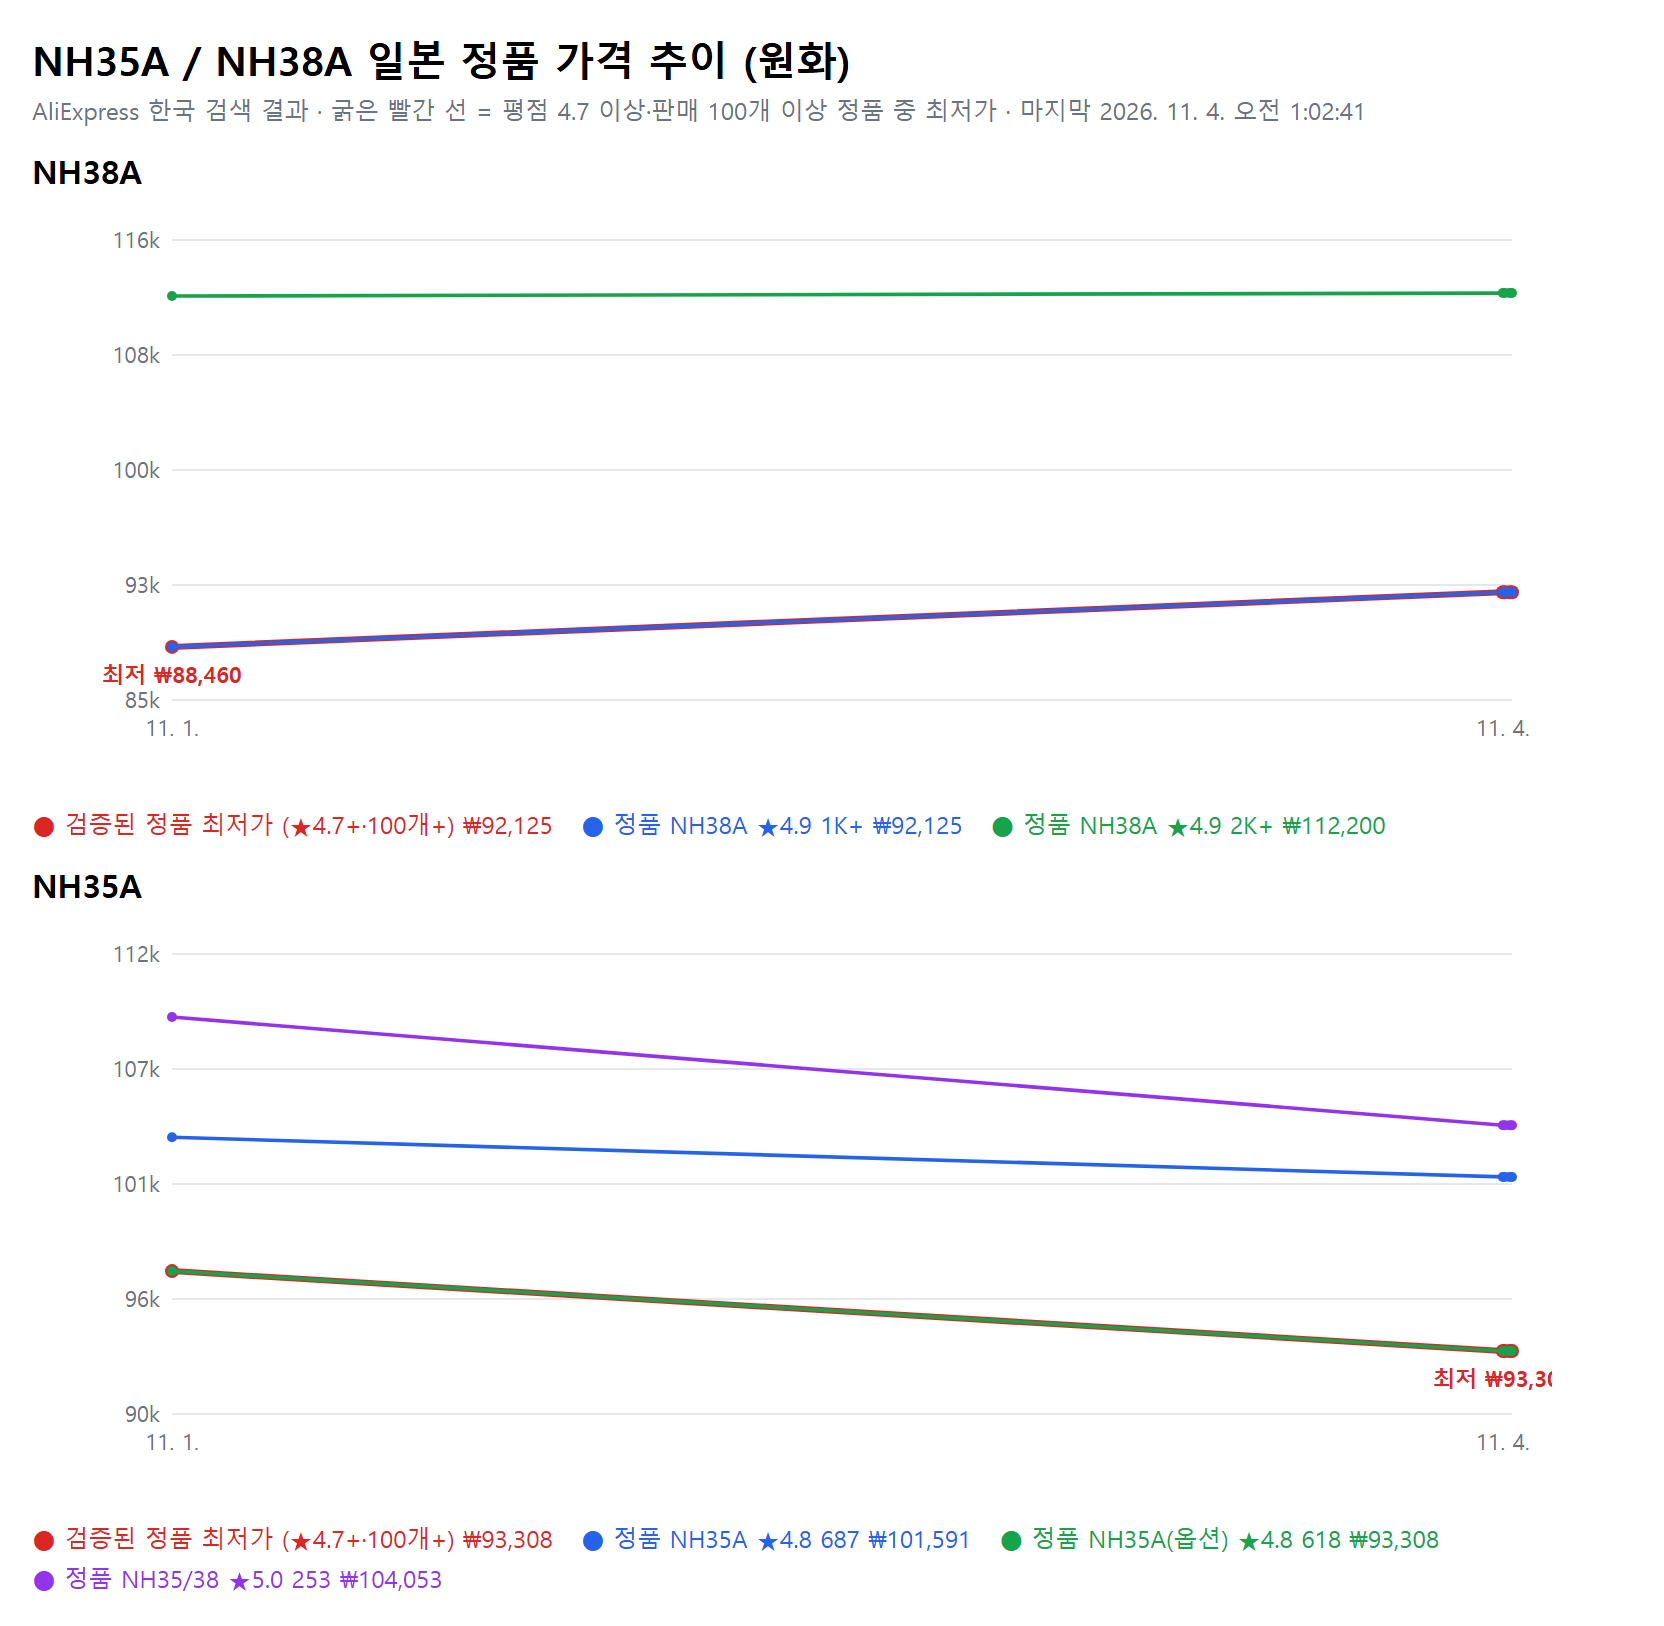
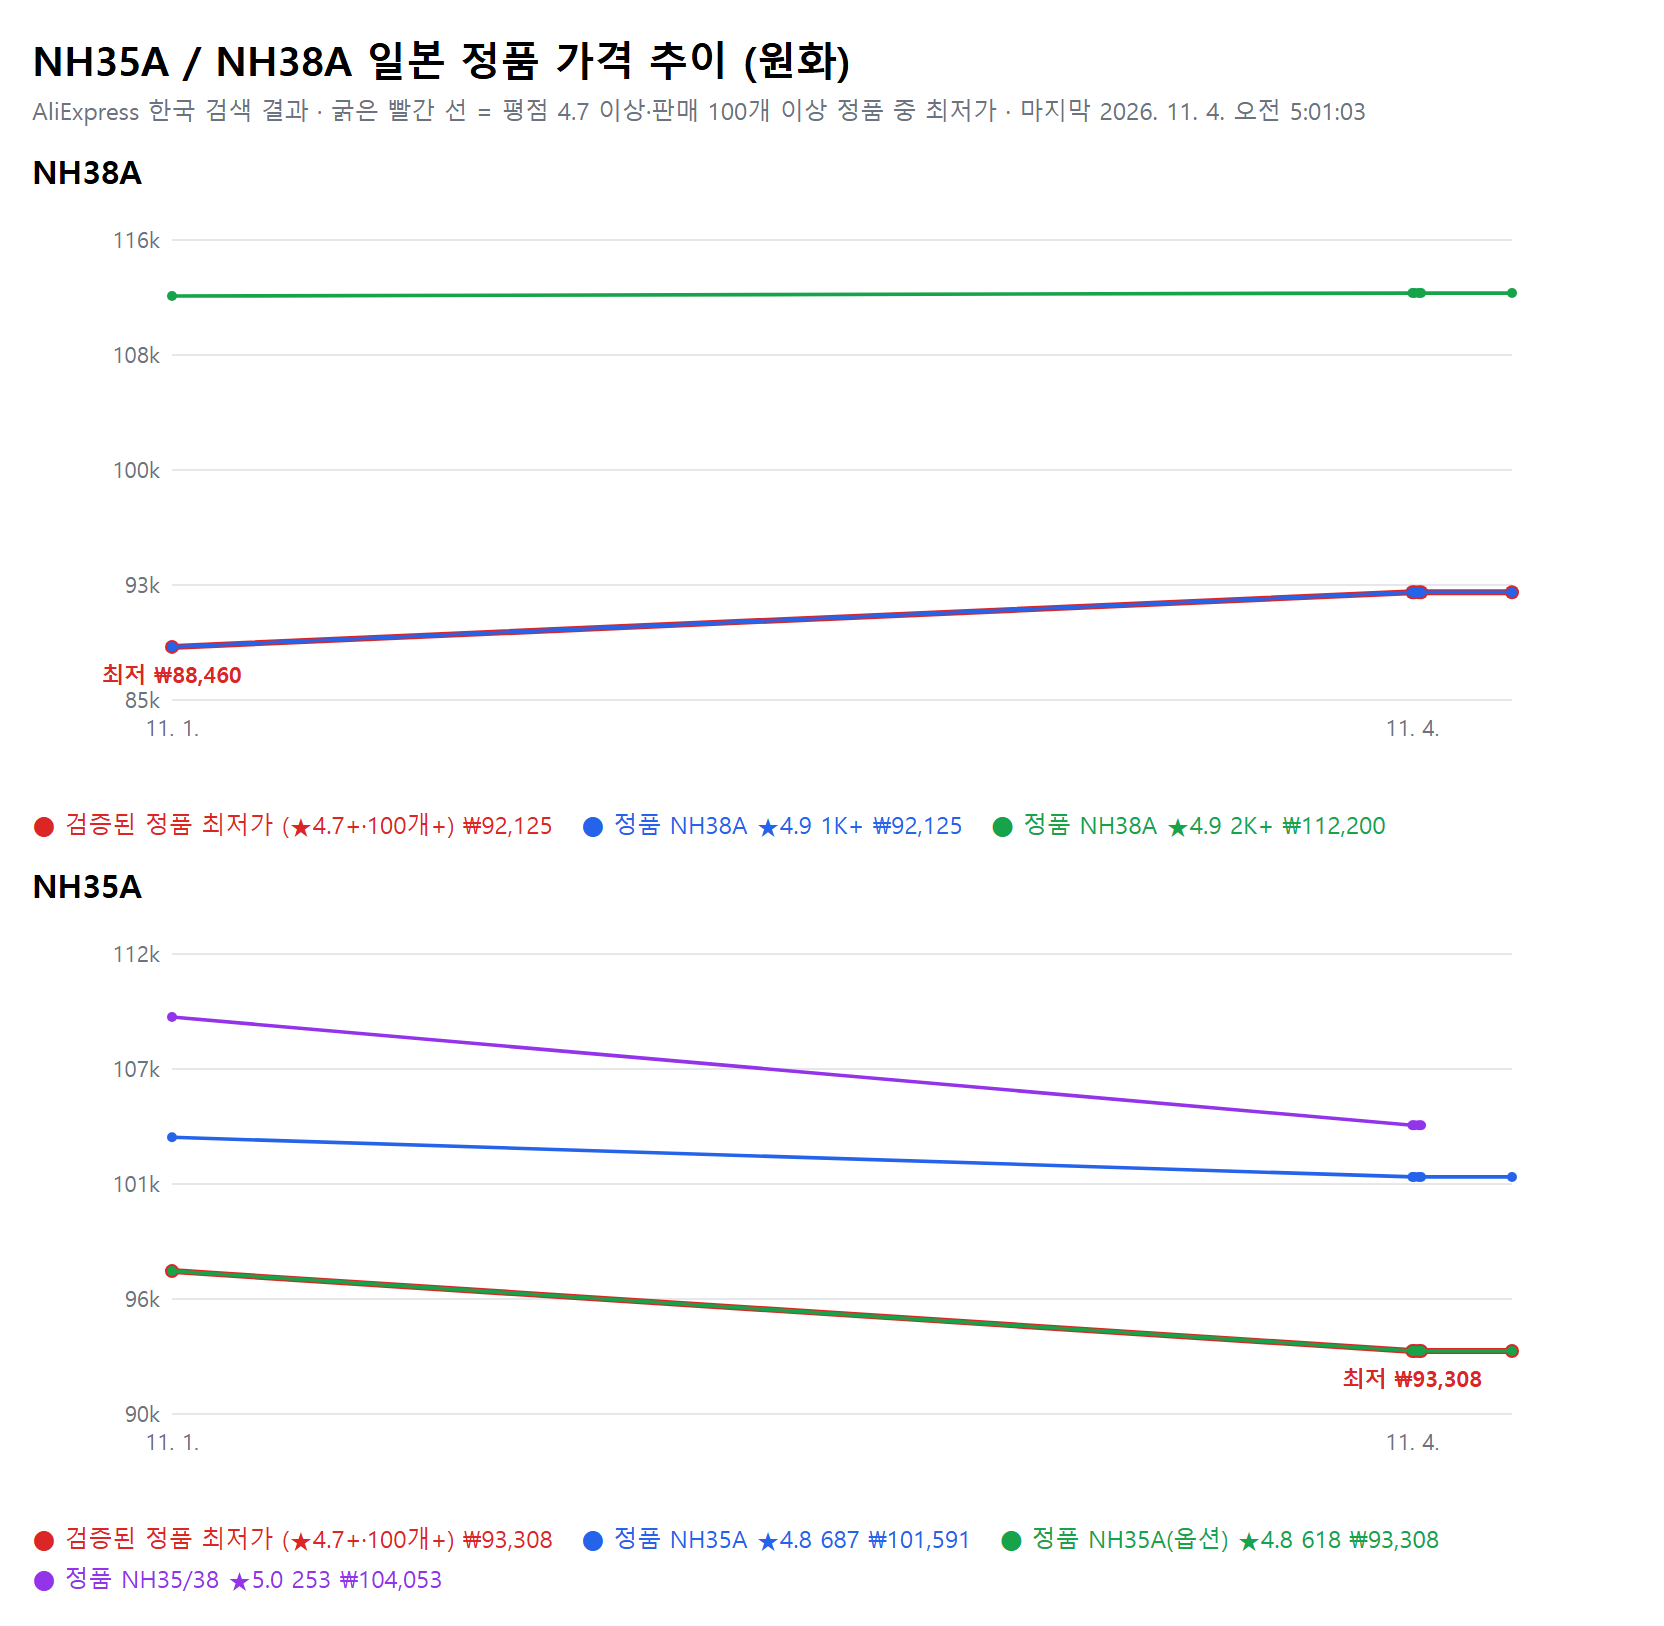
Price tracker update 2026-11-04 05:00 KST

diff --git a/watch_mod/price_tracker/chart.html b/watch_mod/price_tracker/chart.html
@@ -1,2 +1,2 @@
 <!DOCTYPE html><html><head><meta charset="utf-8"><style>body{font-family:sans-serif;margin:16px;width:800px}h1{font-size:20px;margin:0 0 4px}p{color:#6b7280;margin:0 0 8px;font-size:12px}h2{font-size:16px;margin:12px 0 4px}.lg{font-size:12px;display:flex;flex-wrap:wrap;gap:4px 14px}</style></head><body>
-  <h1>NH35A / NH38A 일본 정품 가격 추이 (원화)</h1><p>AliExpress 한국 검색 결과 · 굵은 빨간 선 = 평점 4.7 이상·판매 100개 이상 정품 중 최저가 · 마지막 2026. 11. 4. 오전 1:02:41</p><h2>NH38A</h2><svg width="760" height="300" xmlns="http://www.w3.org/2000/svg" font-family="sans-serif" font-size="11"><line x1="70" x2="740" y1="250" y2="250" stroke="#e5e7eb"/><text x="64" y="254" text-anchor="end" fill="#6b7280">85k</text><line x1="70" x2="740" y1="192.5" y2="192.5" stroke="#e5e7eb"/><text x="64" y="196.5" text-anchor="end" fill="#6b7280">93k</text><line x1="70" x2="740" y1="135" y2="135" stroke="#e5e7eb"/><text x="64" y="139" text-anchor="end" fill="#6b7280">100k</text><line x1="70" x2="740" y1="77.5" y2="77.5" stroke="#e5e7eb"/><text x="64" y="81.5" text-anchor="end" fill="#6b7280">108k</text><line x1="70" x2="740" y1="20" y2="20" stroke="#e5e7eb"/><text x="64" y="24" text-anchor="end" fill="#6b7280">116k</text><text x="70" y="268" text-anchor="middle" fill="#6b7280">11. 1.</text><text x="735.4044908619092" y="268" text-anchor="middle" fill="#6b7280">11. 4.</text><polyline fill="none" stroke="#dc2626" stroke-width="3" points="70,223.46153846153845 735.4044908619092,196.1480137385782 736.4719840607165,196.1480137385782 738.8133057767619,196.1480137385782 740,196.1480137385782"/><circle cx="70" cy="223.46153846153845" r="3.5" fill="#dc2626"/><circle cx="735.4044908619092" cy="196.1480137385782" r="3.5" fill="#dc2626"/><circle cx="736.4719840607165" cy="196.1480137385782" r="3.5" fill="#dc2626"/><circle cx="738.8133057767619" cy="196.1480137385782" r="3.5" fill="#dc2626"/><circle cx="740" cy="196.1480137385782" r="3.5" fill="#dc2626"/><polyline fill="none" stroke="#2563eb" stroke-width="1.8" points="70,223.46153846153845 735.4044908619092,196.1480137385782 736.4719840607165,196.1480137385782 738.8133057767619,196.1480137385782 740,196.1480137385782"/><circle cx="70" cy="223.46153846153845" r="2.5" fill="#2563eb"/><circle cx="735.4044908619092" cy="196.1480137385782" r="2.5" fill="#2563eb"/><circle cx="736.4719840607165" cy="196.1480137385782" r="2.5" fill="#2563eb"/><circle cx="738.8133057767619" cy="196.1480137385782" r="2.5" fill="#2563eb"/><circle cx="740" cy="196.1480137385782" r="2.5" fill="#2563eb"/><polyline fill="none" stroke="#16a34a" stroke-width="1.8" points="70,48.02896766249757 735.4044908619092,46.53846153846155 736.4719840607165,46.53846153846155 738.8133057767619,46.53846153846155 740,46.53846153846155"/><circle cx="70" cy="48.02896766249757" r="2.5" fill="#16a34a"/><circle cx="735.4044908619092" cy="46.53846153846155" r="2.5" fill="#16a34a"/><circle cx="736.4719840607165" cy="46.53846153846155" r="2.5" fill="#16a34a"/><circle cx="738.8133057767619" cy="46.53846153846155" r="2.5" fill="#16a34a"/><circle cx="740" cy="46.53846153846155" r="2.5" fill="#16a34a"/><text x="70" y="241.46153846153845" text-anchor="middle" fill="#dc2626" font-weight="bold">최저 ₩88,460</text></svg><div class="lg"><span style="color:#dc2626">● 검증된 정품 최저가 (★4.7+·100개+) ₩92,125</span><span style="color:#2563eb">● 정품 NH38A ★4.9 1K+ ₩92,125</span><span style="color:#16a34a">● 정품 NH38A ★4.9 2K+ ₩112,200</span></div><h2>NH35A</h2><svg width="760" height="300" xmlns="http://www.w3.org/2000/svg" font-family="sans-serif" font-size="11"><line x1="70" x2="740" y1="250" y2="250" stroke="#e5e7eb"/><text x="64" y="254" text-anchor="end" fill="#6b7280">90k</text><line x1="70" x2="740" y1="192.5" y2="192.5" stroke="#e5e7eb"/><text x="64" y="196.5" text-anchor="end" fill="#6b7280">96k</text><line x1="70" x2="740" y1="135" y2="135" stroke="#e5e7eb"/><text x="64" y="139" text-anchor="end" fill="#6b7280">101k</text><line x1="70" x2="740" y1="77.5" y2="77.5" stroke="#e5e7eb"/><text x="64" y="81.5" text-anchor="end" fill="#6b7280">107k</text><line x1="70" x2="740" y1="20" y2="20" stroke="#e5e7eb"/><text x="64" y="24" text-anchor="end" fill="#6b7280">112k</text><text x="70" y="268" text-anchor="middle" fill="#6b7280">11. 1.</text><text x="735.4044908619092" y="268" text-anchor="middle" fill="#6b7280">11. 4.</text><polyline fill="none" stroke="#dc2626" stroke-width="3" points="70,178.5583774894939 735.4044908619092,218.4816371277179 736.4719840607165,218.4816371277179 738.8133057767619,218.4816371277179 740,218.4816371277179"/><circle cx="70" cy="178.5583774894939" r="3.5" fill="#dc2626"/><circle cx="735.4044908619092" cy="218.4816371277179" r="3.5" fill="#dc2626"/><circle cx="736.4719840607165" cy="218.4816371277179" r="3.5" fill="#dc2626"/><circle cx="738.8133057767619" cy="218.4816371277179" r="3.5" fill="#dc2626"/><circle cx="740" cy="218.4816371277179" r="3.5" fill="#dc2626"/><polyline fill="none" stroke="#2563eb" stroke-width="1.8" points="70,111.63438699068153 735.4044908619092,131.459437237347 736.4719840607165,131.459437237347 738.8133057767619,131.459437237347 740,131.459437237347"/><circle cx="70" cy="111.63438699068153" r="2.5" fill="#2563eb"/><circle cx="735.4044908619092" cy="131.459437237347" r="2.5" fill="#2563eb"/><circle cx="736.4719840607165" cy="131.459437237347" r="2.5" fill="#2563eb"/><circle cx="738.8133057767619" cy="131.459437237347" r="2.5" fill="#2563eb"/><circle cx="740" cy="131.459437237347" r="2.5" fill="#2563eb"/><polyline fill="none" stroke="#16a34a" stroke-width="1.8" points="70,178.5583774894939 735.4044908619092,218.4816371277179 736.4719840607165,218.4816371277179 738.8133057767619,218.4816371277179 740,218.4816371277179"/><circle cx="70" cy="178.5583774894939" r="2.5" fill="#16a34a"/><circle cx="735.4044908619092" cy="218.4816371277179" r="2.5" fill="#16a34a"/><circle cx="736.4719840607165" cy="218.4816371277179" r="2.5" fill="#16a34a"/><circle cx="738.8133057767619" cy="218.4816371277179" r="2.5" fill="#16a34a"/><circle cx="740" cy="218.4816371277179" r="2.5" fill="#16a34a"/><polyline fill="none" stroke="#9333ea" stroke-width="1.8" points="70,51.518362872282104 735.4044908619092,105.59336744016079 736.4719840607165,105.59336744016079 738.8133057767619,105.59336744016079 740,105.59336744016079"/><circle cx="70" cy="51.518362872282104" r="2.5" fill="#9333ea"/><circle cx="735.4044908619092" cy="105.59336744016079" r="2.5" fill="#9333ea"/><circle cx="736.4719840607165" cy="105.59336744016079" r="2.5" fill="#9333ea"/><circle cx="738.8133057767619" cy="105.59336744016079" r="2.5" fill="#9333ea"/><circle cx="740" cy="105.59336744016079" r="2.5" fill="#9333ea"/><text x="735.4044908619092" y="236.4816371277179" text-anchor="middle" fill="#dc2626" font-weight="bold">최저 ₩93,308</text></svg><div class="lg"><span style="color:#dc2626">● 검증된 정품 최저가 (★4.7+·100개+) ₩93,308</span><span style="color:#2563eb">● 정품 NH35A ★4.8 687 ₩101,591</span><span style="color:#16a34a">● 정품 NH35A(옵션) ★4.8 618 ₩93,308</span><span style="color:#9333ea">● 정품 NH35/38 ★5.0 253 ₩104,053</span></div></body></html>
+  <h1>NH35A / NH38A 일본 정품 가격 추이 (원화)</h1><p>AliExpress 한국 검색 결과 · 굵은 빨간 선 = 평점 4.7 이상·판매 100개 이상 정품 중 최저가 · 마지막 2026. 11. 4. 오전 5:01:03</p><h2>NH38A</h2><svg width="760" height="300" xmlns="http://www.w3.org/2000/svg" font-family="sans-serif" font-size="11"><line x1="70" x2="740" y1="250" y2="250" stroke="#e5e7eb"/><text x="64" y="254" text-anchor="end" fill="#6b7280">85k</text><line x1="70" x2="740" y1="192.5" y2="192.5" stroke="#e5e7eb"/><text x="64" y="196.5" text-anchor="end" fill="#6b7280">93k</text><line x1="70" x2="740" y1="135" y2="135" stroke="#e5e7eb"/><text x="64" y="139" text-anchor="end" fill="#6b7280">100k</text><line x1="70" x2="740" y1="77.5" y2="77.5" stroke="#e5e7eb"/><text x="64" y="81.5" text-anchor="end" fill="#6b7280">108k</text><line x1="70" x2="740" y1="20" y2="20" stroke="#e5e7eb"/><text x="64" y="24" text-anchor="end" fill="#6b7280">116k</text><text x="70" y="268" text-anchor="middle" fill="#6b7280">11. 1.</text><text x="690.2298866555991" y="268" text-anchor="middle" fill="#6b7280">11. 4.</text><polyline fill="none" stroke="#dc2626" stroke-width="3" points="70,223.46153846153845 690.2298866555991,196.1480137385782 691.2249072705702,196.1480137385782 693.4072756232184,196.1480137385782 694.5134046525258,196.1480137385782 740,196.1480137385782"/><circle cx="70" cy="223.46153846153845" r="3.5" fill="#dc2626"/><circle cx="690.2298866555991" cy="196.1480137385782" r="3.5" fill="#dc2626"/><circle cx="691.2249072705702" cy="196.1480137385782" r="3.5" fill="#dc2626"/><circle cx="693.4072756232184" cy="196.1480137385782" r="3.5" fill="#dc2626"/><circle cx="694.5134046525258" cy="196.1480137385782" r="3.5" fill="#dc2626"/><circle cx="740" cy="196.1480137385782" r="3.5" fill="#dc2626"/><polyline fill="none" stroke="#2563eb" stroke-width="1.8" points="70,223.46153846153845 690.2298866555991,196.1480137385782 691.2249072705702,196.1480137385782 693.4072756232184,196.1480137385782 694.5134046525258,196.1480137385782 740,196.1480137385782"/><circle cx="70" cy="223.46153846153845" r="2.5" fill="#2563eb"/><circle cx="690.2298866555991" cy="196.1480137385782" r="2.5" fill="#2563eb"/><circle cx="691.2249072705702" cy="196.1480137385782" r="2.5" fill="#2563eb"/><circle cx="693.4072756232184" cy="196.1480137385782" r="2.5" fill="#2563eb"/><circle cx="694.5134046525258" cy="196.1480137385782" r="2.5" fill="#2563eb"/><circle cx="740" cy="196.1480137385782" r="2.5" fill="#2563eb"/><polyline fill="none" stroke="#16a34a" stroke-width="1.8" points="70,48.02896766249757 690.2298866555991,46.53846153846155 691.2249072705702,46.53846153846155 693.4072756232184,46.53846153846155 694.5134046525258,46.53846153846155 740,46.53846153846155"/><circle cx="70" cy="48.02896766249757" r="2.5" fill="#16a34a"/><circle cx="690.2298866555991" cy="46.53846153846155" r="2.5" fill="#16a34a"/><circle cx="691.2249072705702" cy="46.53846153846155" r="2.5" fill="#16a34a"/><circle cx="693.4072756232184" cy="46.53846153846155" r="2.5" fill="#16a34a"/><circle cx="694.5134046525258" cy="46.53846153846155" r="2.5" fill="#16a34a"/><circle cx="740" cy="46.53846153846155" r="2.5" fill="#16a34a"/><text x="70" y="241.46153846153845" text-anchor="middle" fill="#dc2626" font-weight="bold">최저 ₩88,460</text></svg><div class="lg"><span style="color:#dc2626">● 검증된 정품 최저가 (★4.7+·100개+) ₩92,125</span><span style="color:#2563eb">● 정품 NH38A ★4.9 1K+ ₩92,125</span><span style="color:#16a34a">● 정품 NH38A ★4.9 2K+ ₩112,200</span></div><h2>NH35A</h2><svg width="760" height="300" xmlns="http://www.w3.org/2000/svg" font-family="sans-serif" font-size="11"><line x1="70" x2="740" y1="250" y2="250" stroke="#e5e7eb"/><text x="64" y="254" text-anchor="end" fill="#6b7280">90k</text><line x1="70" x2="740" y1="192.5" y2="192.5" stroke="#e5e7eb"/><text x="64" y="196.5" text-anchor="end" fill="#6b7280">96k</text><line x1="70" x2="740" y1="135" y2="135" stroke="#e5e7eb"/><text x="64" y="139" text-anchor="end" fill="#6b7280">101k</text><line x1="70" x2="740" y1="77.5" y2="77.5" stroke="#e5e7eb"/><text x="64" y="81.5" text-anchor="end" fill="#6b7280">107k</text><line x1="70" x2="740" y1="20" y2="20" stroke="#e5e7eb"/><text x="64" y="24" text-anchor="end" fill="#6b7280">112k</text><text x="70" y="268" text-anchor="middle" fill="#6b7280">11. 1.</text><text x="690.2298866555991" y="268" text-anchor="middle" fill="#6b7280">11. 4.</text><polyline fill="none" stroke="#dc2626" stroke-width="3" points="70,178.5583774894939 690.2298866555991,218.4816371277179 691.2249072705702,218.4816371277179 693.4072756232184,218.4816371277179 694.5134046525258,218.4816371277179 740,218.4816371277179"/><circle cx="70" cy="178.5583774894939" r="3.5" fill="#dc2626"/><circle cx="690.2298866555991" cy="218.4816371277179" r="3.5" fill="#dc2626"/><circle cx="691.2249072705702" cy="218.4816371277179" r="3.5" fill="#dc2626"/><circle cx="693.4072756232184" cy="218.4816371277179" r="3.5" fill="#dc2626"/><circle cx="694.5134046525258" cy="218.4816371277179" r="3.5" fill="#dc2626"/><circle cx="740" cy="218.4816371277179" r="3.5" fill="#dc2626"/><polyline fill="none" stroke="#2563eb" stroke-width="1.8" points="70,111.63438699068153 690.2298866555991,131.459437237347 691.2249072705702,131.459437237347 693.4072756232184,131.459437237347 694.5134046525258,131.459437237347 740,131.459437237347"/><circle cx="70" cy="111.63438699068153" r="2.5" fill="#2563eb"/><circle cx="690.2298866555991" cy="131.459437237347" r="2.5" fill="#2563eb"/><circle cx="691.2249072705702" cy="131.459437237347" r="2.5" fill="#2563eb"/><circle cx="693.4072756232184" cy="131.459437237347" r="2.5" fill="#2563eb"/><circle cx="694.5134046525258" cy="131.459437237347" r="2.5" fill="#2563eb"/><circle cx="740" cy="131.459437237347" r="2.5" fill="#2563eb"/><polyline fill="none" stroke="#16a34a" stroke-width="1.8" points="70,178.5583774894939 690.2298866555991,218.4816371277179 691.2249072705702,218.4816371277179 693.4072756232184,218.4816371277179 694.5134046525258,218.4816371277179 740,218.4816371277179"/><circle cx="70" cy="178.5583774894939" r="2.5" fill="#16a34a"/><circle cx="690.2298866555991" cy="218.4816371277179" r="2.5" fill="#16a34a"/><circle cx="691.2249072705702" cy="218.4816371277179" r="2.5" fill="#16a34a"/><circle cx="693.4072756232184" cy="218.4816371277179" r="2.5" fill="#16a34a"/><circle cx="694.5134046525258" cy="218.4816371277179" r="2.5" fill="#16a34a"/><circle cx="740" cy="218.4816371277179" r="2.5" fill="#16a34a"/><polyline fill="none" stroke="#9333ea" stroke-width="1.8" points="70,51.518362872282104 690.2298866555991,105.59336744016079 691.2249072705702,105.59336744016079 693.4072756232184,105.59336744016079 694.5134046525258,105.59336744016079"/><circle cx="70" cy="51.518362872282104" r="2.5" fill="#9333ea"/><circle cx="690.2298866555991" cy="105.59336744016079" r="2.5" fill="#9333ea"/><circle cx="691.2249072705702" cy="105.59336744016079" r="2.5" fill="#9333ea"/><circle cx="693.4072756232184" cy="105.59336744016079" r="2.5" fill="#9333ea"/><circle cx="694.5134046525258" cy="105.59336744016079" r="2.5" fill="#9333ea"/><text x="690.2298866555991" y="236.4816371277179" text-anchor="middle" fill="#dc2626" font-weight="bold">최저 ₩93,308</text></svg><div class="lg"><span style="color:#dc2626">● 검증된 정품 최저가 (★4.7+·100개+) ₩93,308</span><span style="color:#2563eb">● 정품 NH35A ★4.8 687 ₩101,591</span><span style="color:#16a34a">● 정품 NH35A(옵션) ★4.8 618 ₩93,308</span><span style="color:#9333ea">● 정품 NH35/38 ★5.0 253 ₩104,053</span></div></body></html>

diff --git a/watch_mod/price_tracker/latest.md b/watch_mod/price_tracker/latest.md
@@ -2,7 +2,7 @@
 
 # NH35A / NH38A 일본 정품 가격 추적
 
-마지막 확인: 2026. 11. 4. 오전 1:02:41 (기록 5회)
+마지막 확인: 2026. 11. 4. 오전 5:01:03 (기록 6회)
 
 ## NH38A
 - 검증된 정품 최저가: **₩92,125** [#1005010806500239](https://www.aliexpress.com/item/1005010806500239.html) ★4.9 · 1K+판매
@@ -12,11 +12,11 @@
 - 정품 NH38A ★4.9 2K+: ₩112,200 ([링크](https://www.aliexpress.com/item/1005008240895208.html))
 
 ## NH35A
-- 검증된 정품 최저가: **₩93,308** [#1005001430226835](https://www.aliexpress.com/item/1005001430226835.html) ★4.8 · 630판매
+- 검증된 정품 최저가: **₩93,308** [#1005001430226835](https://www.aliexpress.com/item/1005001430226835.html) ★4.8 · 635판매
 - 직전 대비: +₩0
 - 기록상 최저: ₩93,308
 - 정품 NH35A ★4.8 687: ₩101,591 ([링크](https://www.aliexpress.com/item/1005006845396357.html))
 - 정품 NH35A(옵션) ★4.8 618: ₩93,308 ([링크](https://www.aliexpress.com/item/1005001430226835.html))
-- 정품 NH35/38 ★5.0 253: ₩104,053 ([링크](https://www.aliexpress.com/item/1005012515033825.html))
+- 정품 NH35/38 ★5.0 253: - ([링크](https://www.aliexpress.com/item/1005012515033825.html))
 
 ![chart](chart.png)
